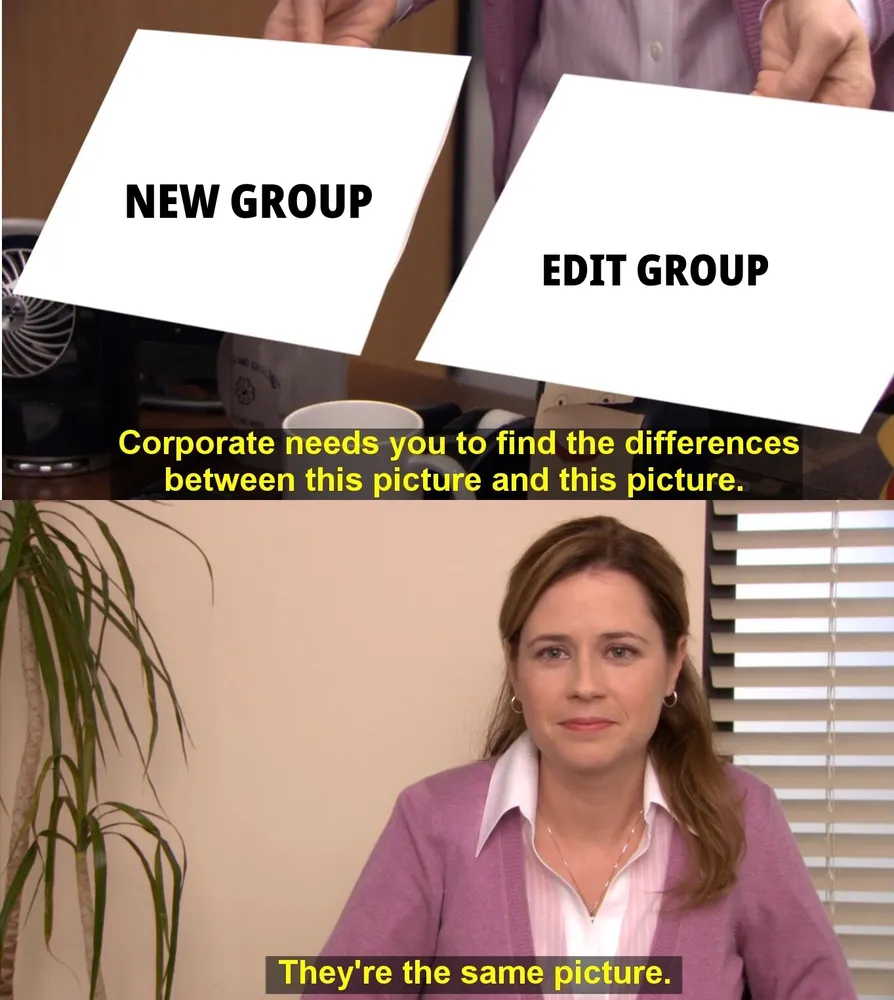
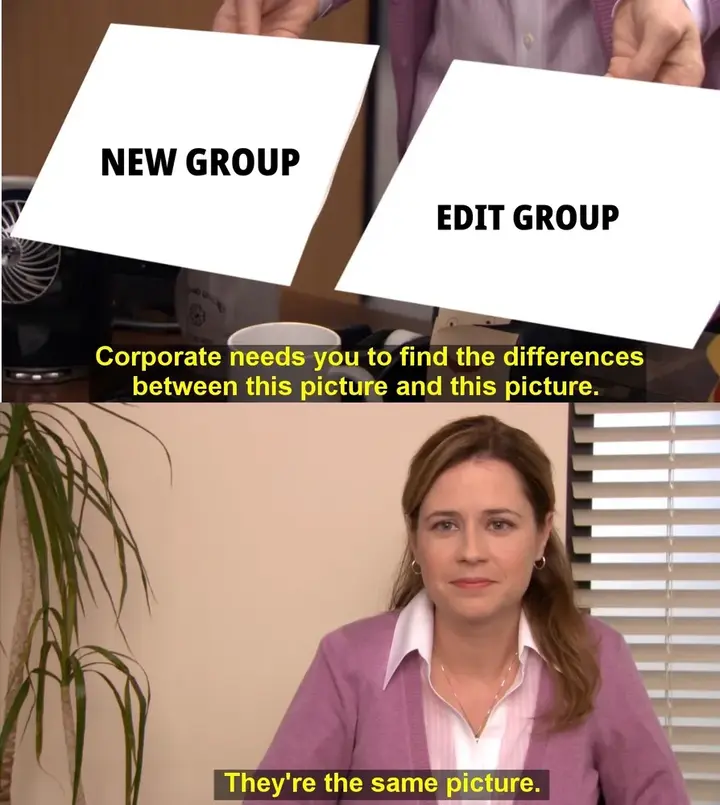
docs(blog): fix field count and lighten cover

Changed region(s): [[0.1222, 0.4348, 0.8861, 0.4969], [0.5194, 0.9627, 0.7333, 0.9938], [0.3361, 0.9627, 0.4889, 0.9938]]

diff --git a/content/blog/one-editor-per-entity.md b/content/blog/one-editor-per-entity.md
@@ -1,15 +1,15 @@
 ---
 title: "One editor per entity: why Add and Edit share one screen"
-description: "Why New and Edit should open the same form, at /groups/new and /groups/:id: one set of fields and checks, a real address, and creates that work offline."
+description: "Why New and Edit should open the same form, at /groups/new and /groups/:id: one set of fields and checks, a real address, and ids that let creates work offline."
 tldr:
   - "In my apps, Add and Edit are one screen: New group opens the group's editor at /groups/new, and an existing group opens the same component at /groups/:id."
   - "One component means one set of fields, one check and one place for the loading, error and offline states, so create and edit cannot drift apart."
   - "A real address beats ?new: you can link to it and reload it, and after a create the address is replaced, so Back does not reopen an empty form."
   - "Ids made on the device let Seed create tags and notes offline and send them later with the same id. Groups still need a connection."
-intro: "Seed's New group button used to open a dialog with one field, while editing a group showed four. This post is for developers and product people who keep building a create form and an edit form for the same thing, and wonder whether they should."
+intro: "Seed's New group button used to open a dialog with one field, while editing a group showed four: description, colour and emoji besides the name. This post is for developers and product people who keep building a create form and an edit form for the same thing, and wonder whether they should."
 coverImage: "/img/blog/one-editor-per-entity/cover.png"
 coverAlt: "The They're The Same Picture meme from The Office: Pam is asked to find the differences between two papers labelled \"New group\" and \"Edit group\", and answers \"They're the same picture.\""
-coverSize: "894x1000"
+coverSize: "720x805"
 publishedAt: "2026-11-14"
 readTime: 8
 topic: "developers"
@@ -18,7 +18,7 @@ catalogSlug: "zero-to-production-saas-mvp"
 seoTitle: "Why Add and Edit should be one screen"
 ---
 
-![Seed's group editor twice, side by side. On the left, create mode at /groups/new: the title New group, the name Book club, a description, a books emoji, the teal colour, and Cancel and Create group buttons. On the right, the same form in edit mode for Book club, with the tabs General, Members, Billing and Activity, a changed description, and Discard and Save group buttons](/img/blog/one-editor-per-entity/new-and-edit.webp "One component at /groups/new and at /groups/:id, in Seed's public demo.")
+![Seed's group editor twice, side by side. On the left, create mode at /groups/new: the title New group, the name Book club, a description, a books emoji, the teal colour, and Cancel and Create group buttons. On the right, the same form in edit mode for Book club, with the tabs General, Members, Billing and Activity, a changed description, and Discard and Save group buttons](/img/blog/one-editor-per-entity/new-and-edit.webp "One component at /groups/new and at /groups/:id, in Seed's public demo, whose build predates the time zone field.")
 
 In my apps, Add and Edit are one screen. "New group" opens the group's editor at
 `/groups/new` in create mode, and an existing group opens the same editor at
@@ -94,8 +94,8 @@ picks the mode
 Both branches draw one `GroupEditorScreen`. Create mode passes `creating`; edit
 mode passes the saved group. What that buys:
 
-1. **One set of fields.** Name, description, emoji and colour in both modes. A
-   create sends all four in one request.
+1. **One set of fields.** Name, description, emoji, colour and, since November,
+   the group's time zone, in both modes. A create sends them all in one request.
 2. **One check.** `checkGroupDraft` checks the draft with the server's own
    parsers, so a typo is caught before the round trip, and both `create()` and
    `save()` call it
